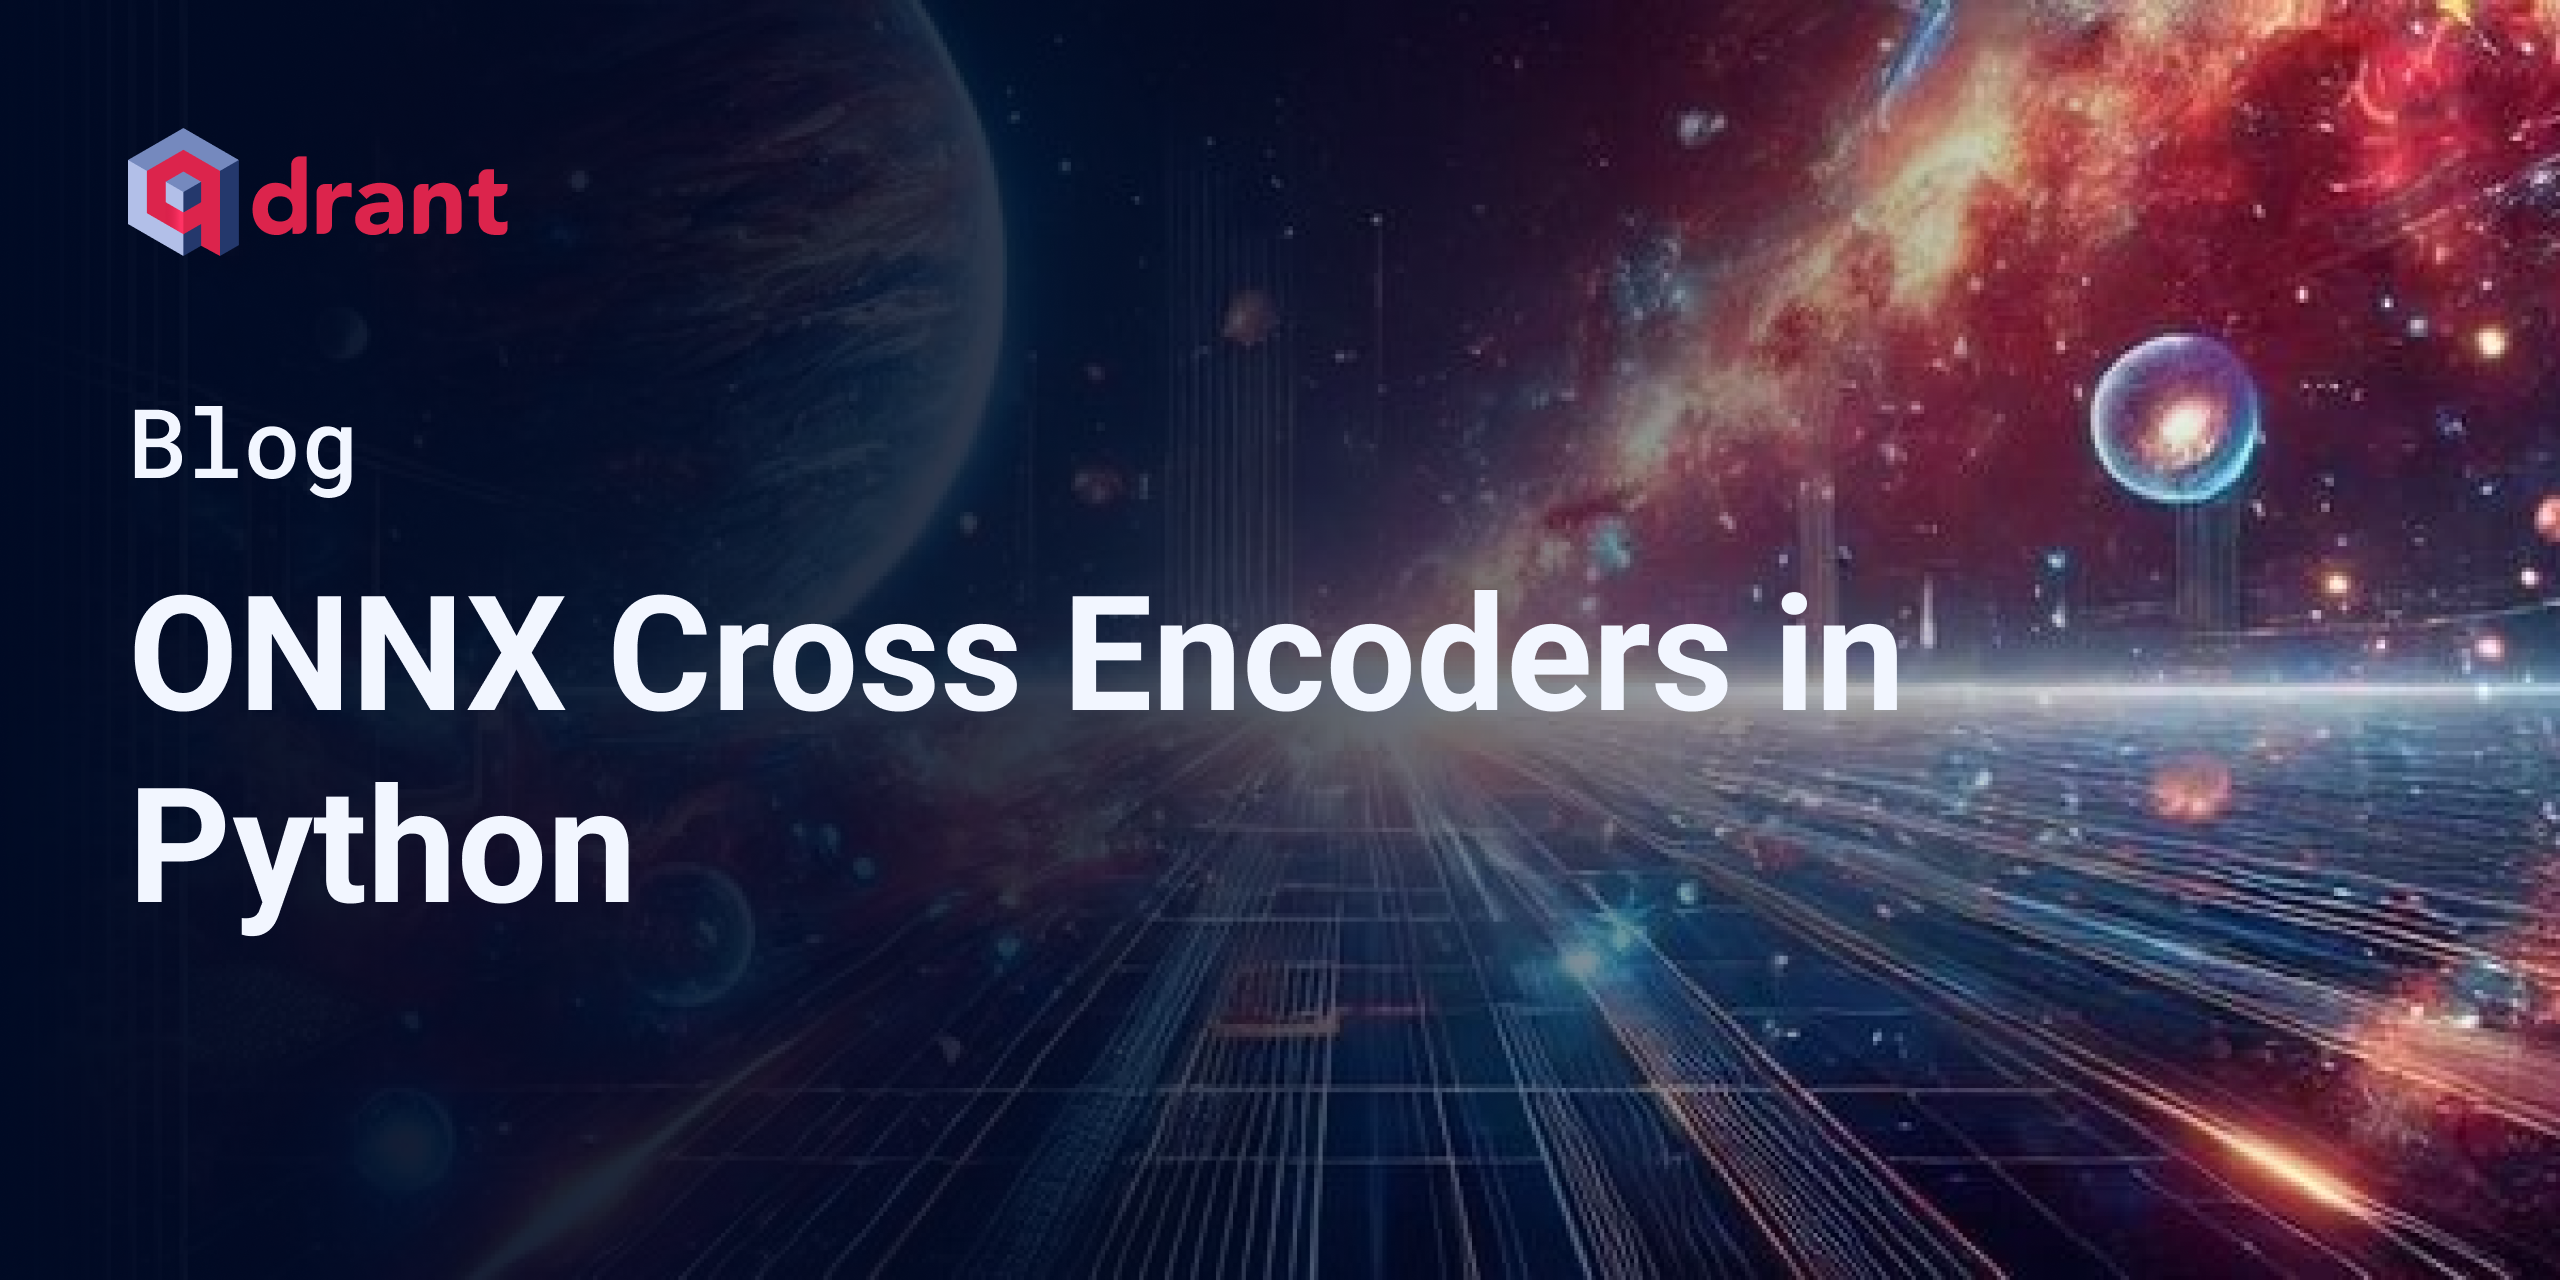
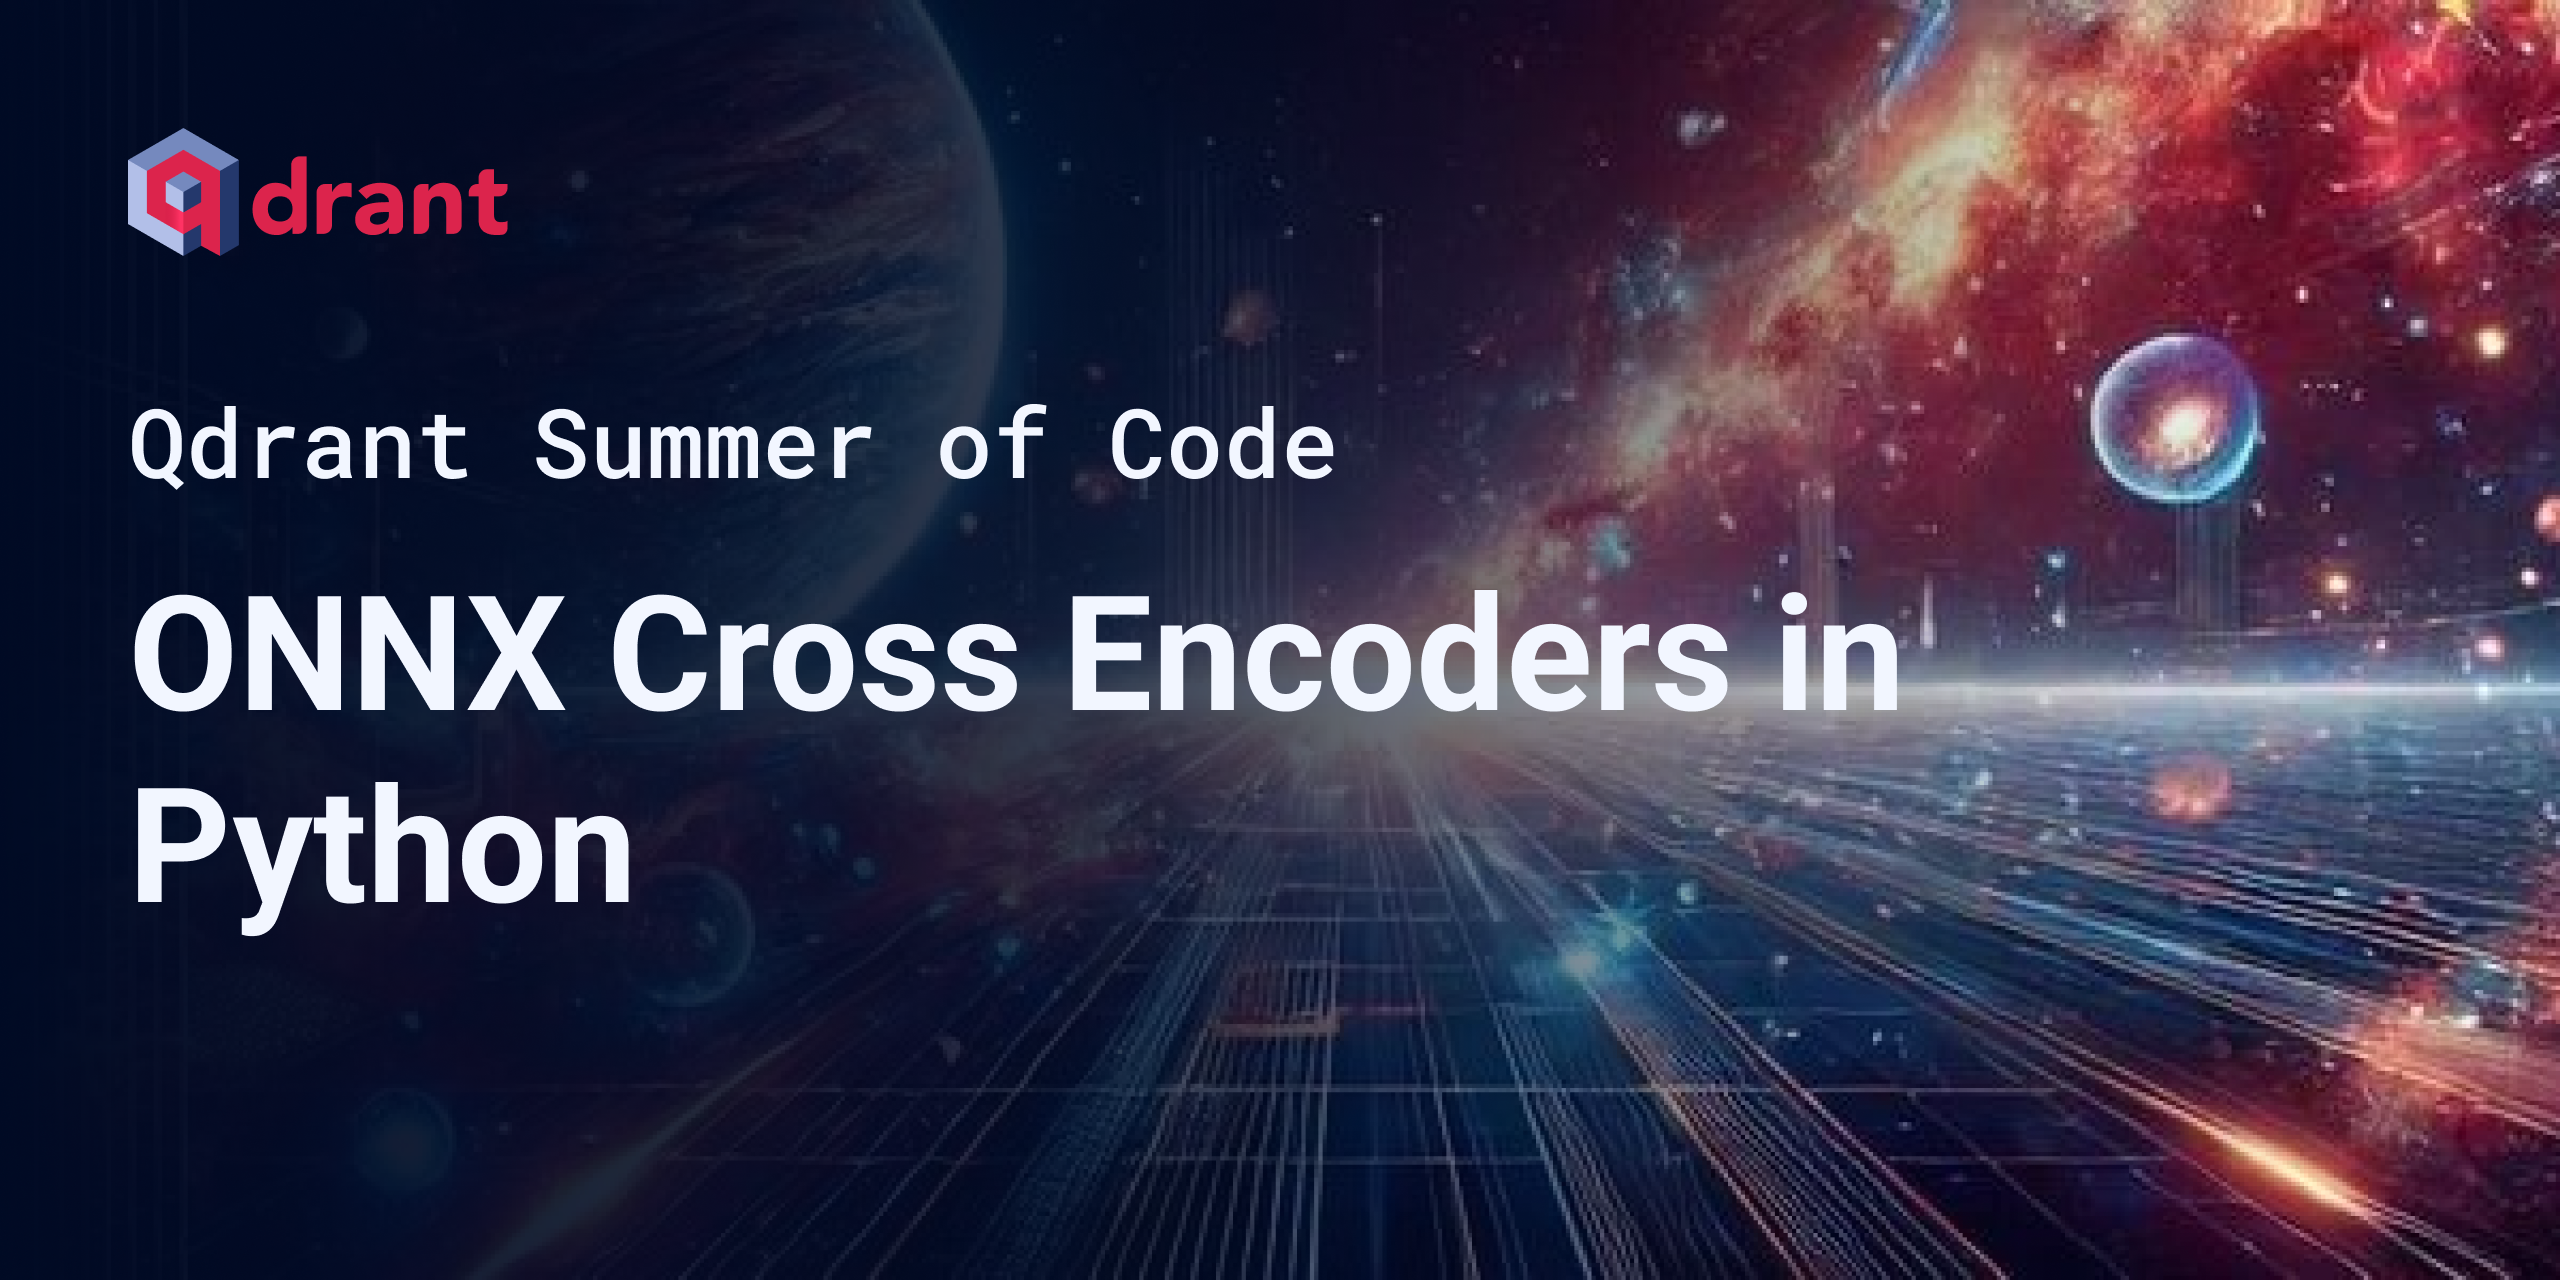
adjusted previews and weight

Changed region(s): [[0.0312, 0.3125, 0.4062, 0.4062], [0.4375, 0.3125, 0.5312, 0.375]]

diff --git a/qdrant-landing/content/articles/cross-encoder-integration-gsoc.md b/qdrant-landing/content/articles/cross-encoder-integration-gsoc.md
@@ -5,7 +5,7 @@ description: A summary of my work and experience at Qdrant Summer of Code 2024.
 preview_dir: /articles_data/cross-encoder-integration-gsoc/preview
 small_preview_image: /articles_data/cross-encoder-integration-gsoc/icon.svg
 social_preview_image: /articles_data/cross-encoder-integration-gsoc/preview/social_preview.jpg
-weight: 10
+weight: -212
 author: Huong (Celine) Hoang
 author_link: https://www.linkedin.com/in/celine-h-hoang/
 date: 2024-10-14T08:00:00+03:00
@@ -15,6 +15,7 @@ keywords:
   - reranking
   - fastembed
   - qsoc'24
+  - qdrant
 ---
 
 ## Introduction
@@ -39,7 +40,7 @@ Below is a diagram that represents the overall workflow for this project, detail
 
 ### 1. Building a New Input-Output Scheme
 
-FastEmbed already had support for embeddings, but re-ranking with cross-encoders meant building a completely new family of classes. These models accept a query and a set of documents, then return a list of relevance scores. For that, I created the base classes like TextCrossEncoderBase and OnnxCrossEncoder, taking inspiration from existing text embedding models.
+FastEmbed already had support for embeddings, but re-ranking with cross-encoders meant building a completely new family of classes. These models accept a query and a set of documents, then return a list of relevance scores. For that, I created the base classes like `TextCrossEncoderBase` and `OnnxCrossEncoder`, taking inspiration from existing text embedding models.
 
 One thing I had to ensure was that the new class hierarchy was user-friendly. Users should be able to work with cross-encoders without needing to know the complexities of the underlying models. For instance, they should be able to just write:
 
